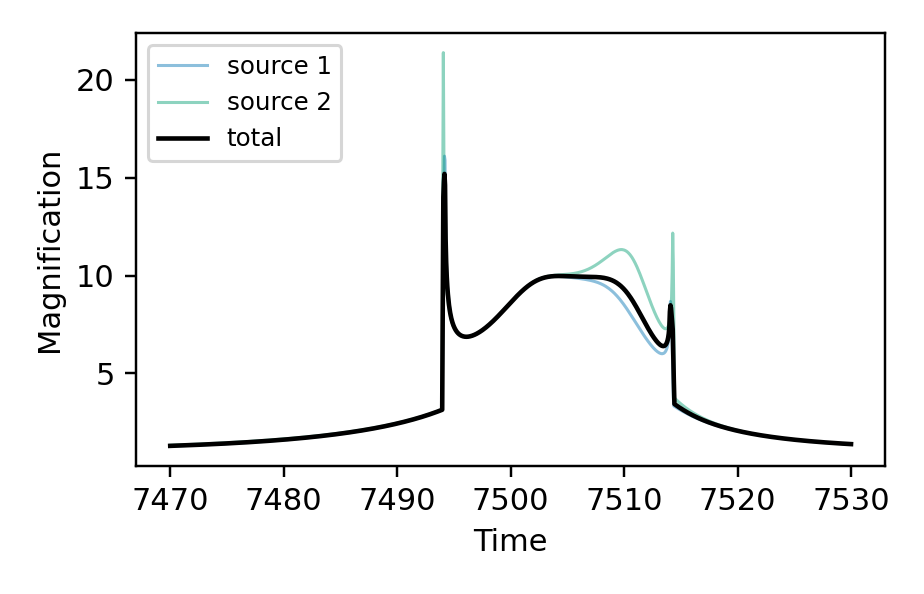
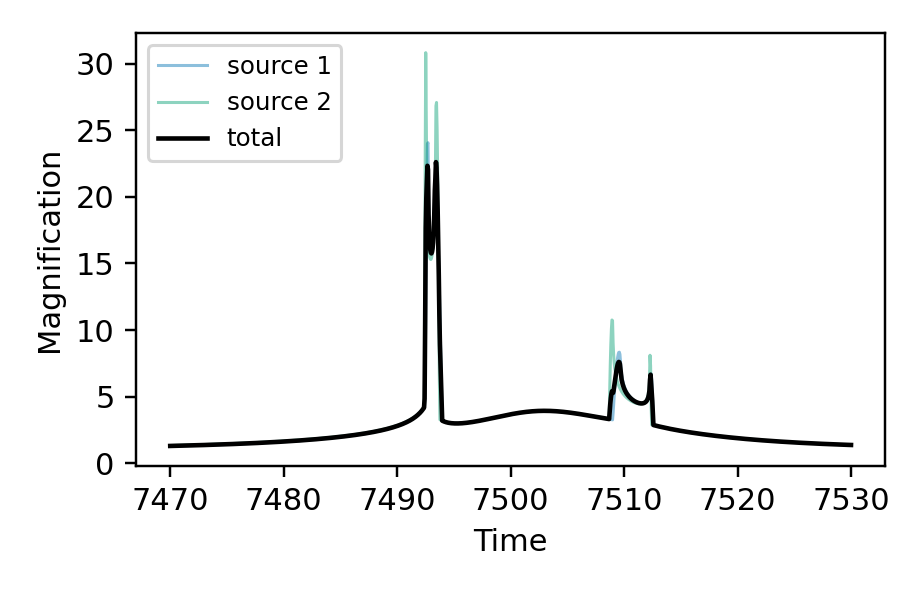
docs: align circular xallarap reference trajectories

diff --git a/example/docs-python/generate_figures.py b/example/docs-python/generate_figures.py
@@ -388,7 +388,7 @@ def binary_source_xallarap_lightcurve():
 
 def binary_source_xallarap_elements_lightcurve():
     params = dict(
-        s=0.9, q=0.1, alpha=0.7, tE=30.0, t0=7500.0, u0=0.10,
+        s=0.9, q=0.1, alpha=0.7, tE=30.0, t0=7500.0, u0=0.20,
         rho1=0.004, rho2=0.002, flux_ratio=0.4, source_mass_ratio=0.7,
         xi_1=0.02, xi_2=-0.01,
     )
@@ -464,7 +464,7 @@ def xallarap_single_source():
     static = lcbinint.LightCurve()
 
     elements_params = dict(
-        common, u0=0.10, xi_1=0.02, xi_2=-0.01,
+        common, u0=0.20, xi_1=0.02, xi_2=-0.01,
         period_xa=90.0, inc_xa=0.6,
     )
     elements = lcbinint.LightCurve(xallarap="circular_elements", t_ref=7500.0)

diff --git a/docs/python/Xallarap.md b/docs/python/Xallarap.md
@@ -85,7 +85,7 @@ The narrow finite-source feature here is resolved with a denser time grid.
 times = np.linspace(7470.0, 7530.0, 1200)
 parameters = {
     "s": 0.9, "q": 0.1, "alpha": 0.7, "tE": 30.0,
-    "t0": 7500.0, "u0": 0.10, "rho": 0.004,
+    "t0": 7500.0, "u0": 0.20, "rho": 0.004,
     "xi_1": 0.02, "xi_2": -0.01,
     "period_xa": 90.0, "inc_xa": 0.6,
 }

diff --git a/docs/python/BinarySourceXallarap.md b/docs/python/BinarySourceXallarap.md
@@ -29,7 +29,7 @@ import lcbinint
 times = np.linspace(7470.0, 7530.0, 1200)
 parameters = {
     "s": 0.9, "q": 0.1, "alpha": 0.7, "tE": 30.0,
-    "t0": 7500.0, "u0": 0.10,
+    "t0": 7500.0, "u0": 0.20,
     "rho1": 0.004, "rho2": 0.002, "flux_ratio": 0.4,
     "source_mass_ratio": 0.7,
     "xi_1": 0.02, "xi_2": -0.01,
